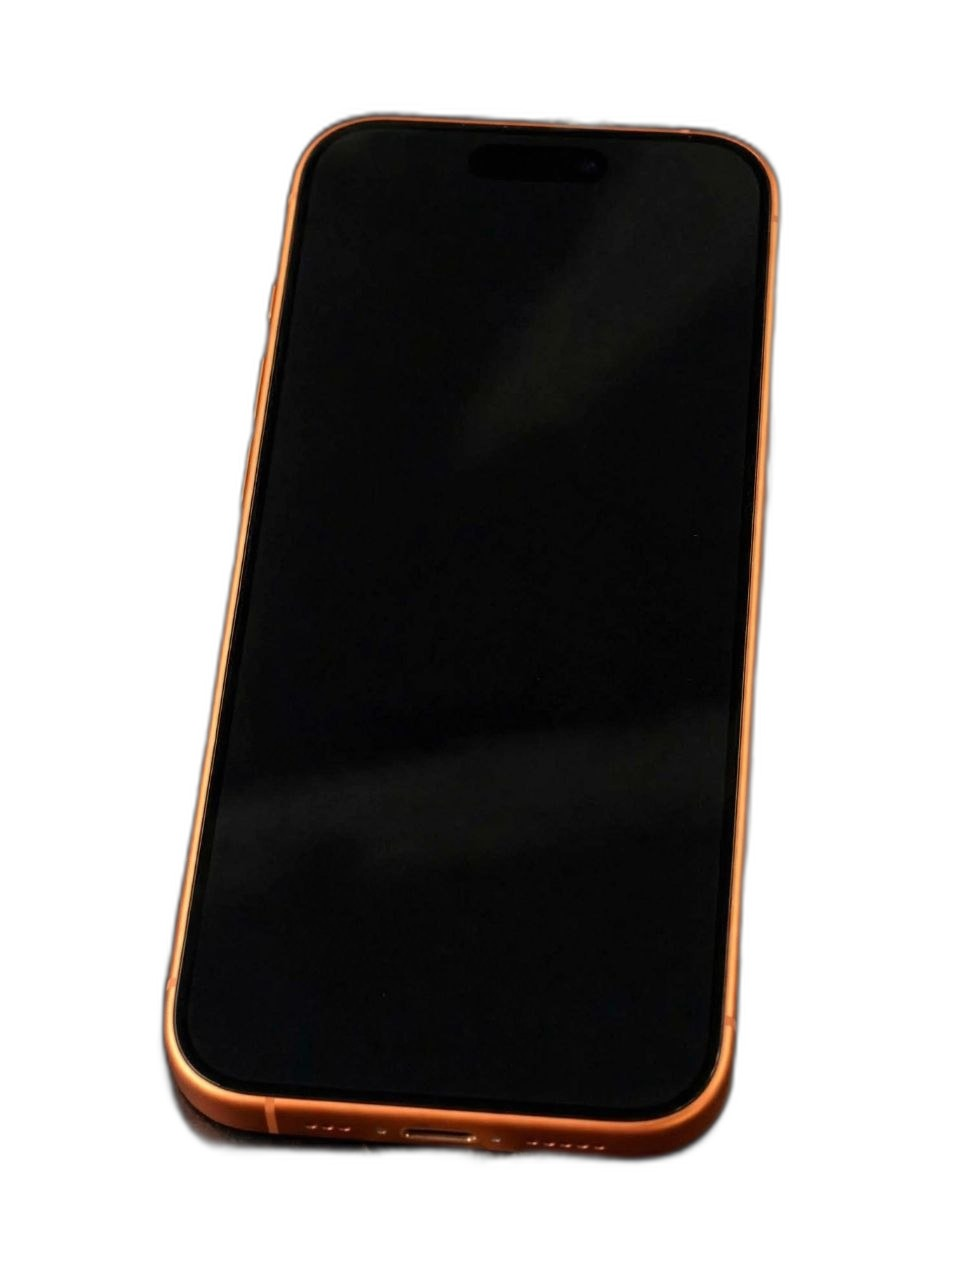
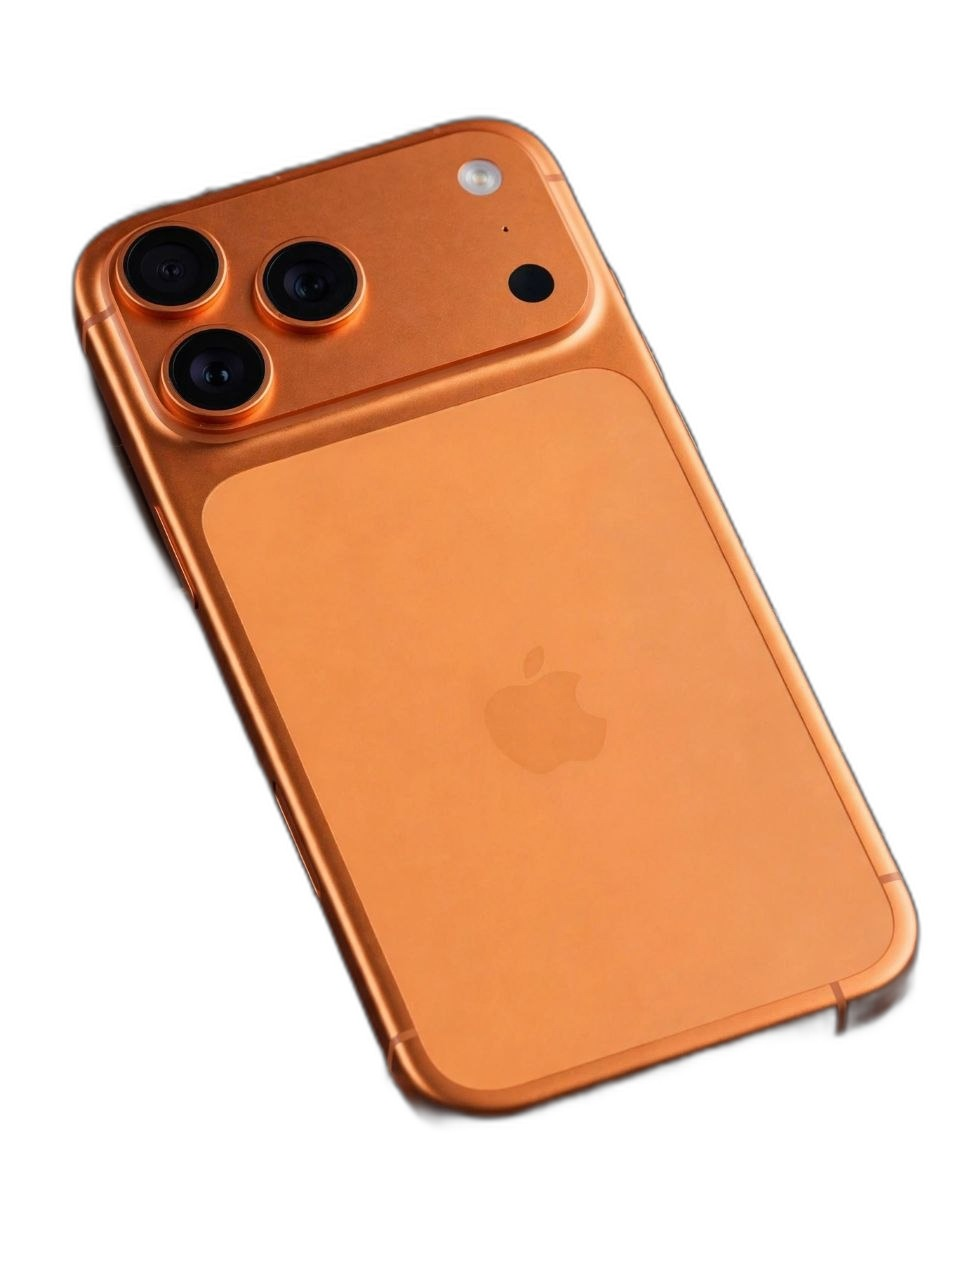
Fix iPhone catalog data and cache versions

diff --git a/frontend/js/store.js b/frontend/js/store.js
@@ -18,6 +18,7 @@
   const NEW_NOVEMBER_4_INVENTORY_SEED_KEY = 'electrophone_new_inventory_20261104_v1';
   const POCO_INVENTORY_SEED_KEY = 'electrophone_poco_inventory_20261027_v1';
   const POCO_PRICE_UPDATE_KEY = 'electrophone_poco_256_1850_20261029_v2';
+  const IPHONE_17_PRO_MAX_PRICE_UPDATE_KEY = 'electrophone_iphone17promax_1tb_14999_20261104_v1';
   const OPPO_A73_SEED_KEY = 'electrophone_oppo_a73_128_6_20261027_v1';
   const FJ_STAR_FJ_A6_SEED_KEY = 'electrophone_accessory_fj_star_fj_a6_20261027_v1';
   const JBL_980BT_SEED_KEY = 'electrophone_accessory_980bt_20261027_v1';
@@ -685,7 +686,7 @@
       storage: '1TB',
       ram: '12GB',
       name: 'iPhone 17 Pro Max 1TB - 100% Battery',
-      price: 15000,
+      price: 14999,
       oldPrice: 0,
       img: 'asset:phones/iphone-17-pro-max-1tb-100-battery-1.jpg',
       images: [
@@ -779,11 +780,16 @@
       model: '17 Pro Max',
       storage: '512GB',
       ram: '',
-      name: 'iPhone 17 Pro Max 512GB - 93% Battery',
+      name: 'iPhone 17 Pro Max 512GB',
       price: 13000,
       oldPrice: 0,
-      img: 'asset:phones/iphone-17-pro-max-512gb-93-battery.jpg',
-      images: ['asset:phones/iphone-17-pro-max-512gb-93-battery.jpg'],
+      img: 'asset:phones/stock2-iphone-17-pro-max-1.jpg',
+      images: [
+        'asset:phones/stock2-iphone-17-pro-max-1.jpg',
+        'asset:phones/stock2-iphone-17-pro-max-2.jpg',
+        'asset:phones/stock2-iphone-17-pro-max-3.jpg',
+        'asset:phones/stock2-iphone-17-pro-max-4.jpg'
+      ],
       condition: 'متوفر',
       quantity: 1,
       summary: '512GB • بطارية 93%',
@@ -1139,6 +1145,19 @@
 
   function applyPhonePriceRule(products) {
     return products.map(product => {
+      const brand = String(product.brand || '').toLowerCase();
+      if (brand === 'iphone') {
+        product = {
+          ...product,
+          ram: '',
+          name: String(product.name || '')
+            .replace(/\biPhone\s+iPhone\b/gi, 'iPhone')
+            .replace(/\s*(?:[-•]\s*)?RAM\s*\d+(?:GB|G)\b/gi, '')
+            .replace(/\s+(?:RAM\s*)?4GB\b/gi, '')
+            .replace(/\s{2,}/g, ' ')
+            .trim()
+        };
+      }
       const exactPriceIds = new Set([
         'phone-iphone-17-pro-max-1tb-100-battery-20261029',
         'phone-samsung-s24-ultra-256gb-12ram-20261029',
@@ -1150,6 +1169,31 @@
       ]);
       if (String(product.id) === 'phone-poco-256-8-20261027') {
         return { ...product, price: 1850, oldPrice: 0 };
+      }
+      if (String(product.id) === 'phone-iphone-17-pro-max-1tb-100-battery-20261029') {
+        return { ...product, price: 14999, oldPrice: 0 };
+      }
+      if (String(product.id) === 'phone-iphone-17-pro-max-512gb-93-battery-20261104') {
+        const images = [
+          'asset:phones/stock2-iphone-17-pro-max-1.jpg',
+          'asset:phones/stock2-iphone-17-pro-max-2.jpg',
+          'asset:phones/stock2-iphone-17-pro-max-3.jpg',
+          'asset:phones/stock2-iphone-17-pro-max-4.jpg'
+        ];
+        return {
+          ...product,
+          brand: 'iphone',
+          model: '17 Pro Max',
+          storage: '512GB',
+          ram: '',
+          name: 'iPhone 17 Pro Max 512GB',
+          summary: '512GB • بطارية 93%',
+          desc: 'iPhone 17 Pro Max بسعة 512GB وصحة بطارية 93%.',
+          img: images[0],
+          images,
+          price: 13000,
+          oldPrice: 0
+        };
       }
       if (exactPriceIds.has(String(product.id))) {
         return { ...product, oldPrice: 0 };
@@ -1325,6 +1369,17 @@
     );
     saveProducts(updatedProducts);
     localStorage.setItem(POCO_PRICE_UPDATE_KEY, 'true');
+  }
+
+  if (!localStorage.getItem(IPHONE_17_PRO_MAX_PRICE_UPDATE_KEY)) {
+    const products = getProducts();
+    const updatedProducts = products.map(product =>
+      String(product.id) === 'phone-iphone-17-pro-max-1tb-100-battery-20261029'
+        ? { ...product, price: 14999 }
+        : product
+    );
+    saveProducts(updatedProducts);
+    localStorage.setItem(IPHONE_17_PRO_MAX_PRICE_UPDATE_KEY, 'true');
   }
 
   if (!localStorage.getItem(OPPO_A73_SEED_KEY)) {
@@ -1937,6 +1992,19 @@
 
   function toFrenchCatalogText(value) {
     let text = String(value == null ? '' : value);
+    text = text
+      .replace(/(?:\?|؟){2,}/g, '')
+      .replace(/\bقيد التأكيد\b/g, '')
+      .replace(/غير محدد(?:ة|ين)?/g, '')
+      .replace(/تحديد الموديل مطلوب/g, 'موديل متوفر للطلب')
+      .replace(/حسب التفاصيل المتوفرة/g, '')
+      .replace(/\s*\((?:تأكيد الطراز|تأكيد النسخة)\)/g, '')
+      .replace(/\bتأكيد النسخة\b/g, '')
+      .replace(/\bتأكيد الطراز\b/g, '')
+      .replace(/\s+[•،,]\s*[•،,]\s*/g, ' • ')
+      .replace(/[()[\]{}]{2}/g, '')
+      .replace(/\s{2,}/g, ' ')
+      .trim();
     const translations = [
       ['حالة ممتازة', 'Excellent état'],
       ['بحالة ممتازة', 'Excellent état'],
@@ -2031,6 +2099,17 @@
   function normalizeCatalogText(item) {
     if (!item || typeof item !== 'object') return item;
     const normalized = { ...item };
+    if (String(normalized.brand || '').toLowerCase() === 'iphone') {
+      normalized.ram = '';
+      if (typeof normalized.name === 'string') {
+        normalized.name = normalized.name
+          .replace(/\biPhone\s+iPhone\b/gi, 'iPhone')
+          .replace(/\s*(?:[-•]\s*)?RAM\s*\d+(?:GB|G)\b/gi, '')
+          .replace(/\s+(?:RAM\s*)?4GB\b/gi, '')
+          .replace(/\s{2,}/g, ' ')
+          .trim();
+      }
+    }
     ['name', 'condition', 'cond', 'summary', 'desc', 'type'].forEach(field => {
       if (typeof normalized[field] === 'string') {
         normalized[field] = toFrenchCatalogText(normalized[field]);

diff --git a/netlify-deploy/frontend/js/store.js b/netlify-deploy/frontend/js/store.js
@@ -18,6 +18,7 @@
   const NEW_NOVEMBER_4_INVENTORY_SEED_KEY = 'electrophone_new_inventory_20261104_v1';
   const POCO_INVENTORY_SEED_KEY = 'electrophone_poco_inventory_20261027_v1';
   const POCO_PRICE_UPDATE_KEY = 'electrophone_poco_256_1850_20261029_v2';
+  const IPHONE_17_PRO_MAX_PRICE_UPDATE_KEY = 'electrophone_iphone17promax_1tb_14999_20261104_v1';
   const OPPO_A73_SEED_KEY = 'electrophone_oppo_a73_128_6_20261027_v1';
   const FJ_STAR_FJ_A6_SEED_KEY = 'electrophone_accessory_fj_star_fj_a6_20261027_v1';
   const JBL_980BT_SEED_KEY = 'electrophone_accessory_980bt_20261027_v1';
@@ -685,7 +686,7 @@
       storage: '1TB',
       ram: '12GB',
       name: 'iPhone 17 Pro Max 1TB - 100% Battery',
-      price: 15000,
+      price: 14999,
       oldPrice: 0,
       img: 'asset:phones/iphone-17-pro-max-1tb-100-battery-1.jpg',
       images: [
@@ -779,11 +780,16 @@
       model: '17 Pro Max',
       storage: '512GB',
       ram: '',
-      name: 'iPhone 17 Pro Max 512GB - 93% Battery',
+      name: 'iPhone 17 Pro Max 512GB',
       price: 13000,
       oldPrice: 0,
-      img: 'asset:phones/iphone-17-pro-max-512gb-93-battery.jpg',
-      images: ['asset:phones/iphone-17-pro-max-512gb-93-battery.jpg'],
+      img: 'asset:phones/stock2-iphone-17-pro-max-1.jpg',
+      images: [
+        'asset:phones/stock2-iphone-17-pro-max-1.jpg',
+        'asset:phones/stock2-iphone-17-pro-max-2.jpg',
+        'asset:phones/stock2-iphone-17-pro-max-3.jpg',
+        'asset:phones/stock2-iphone-17-pro-max-4.jpg'
+      ],
       condition: 'متوفر',
       quantity: 1,
       summary: '512GB • بطارية 93%',
@@ -1139,6 +1145,19 @@
 
   function applyPhonePriceRule(products) {
     return products.map(product => {
+      const brand = String(product.brand || '').toLowerCase();
+      if (brand === 'iphone') {
+        product = {
+          ...product,
+          ram: '',
+          name: String(product.name || '')
+            .replace(/\biPhone\s+iPhone\b/gi, 'iPhone')
+            .replace(/\s*(?:[-•]\s*)?RAM\s*\d+(?:GB|G)\b/gi, '')
+            .replace(/\s+(?:RAM\s*)?4GB\b/gi, '')
+            .replace(/\s{2,}/g, ' ')
+            .trim()
+        };
+      }
       const exactPriceIds = new Set([
         'phone-iphone-17-pro-max-1tb-100-battery-20261029',
         'phone-samsung-s24-ultra-256gb-12ram-20261029',
@@ -1150,6 +1169,31 @@
       ]);
       if (String(product.id) === 'phone-poco-256-8-20261027') {
         return { ...product, price: 1850, oldPrice: 0 };
+      }
+      if (String(product.id) === 'phone-iphone-17-pro-max-1tb-100-battery-20261029') {
+        return { ...product, price: 14999, oldPrice: 0 };
+      }
+      if (String(product.id) === 'phone-iphone-17-pro-max-512gb-93-battery-20261104') {
+        const images = [
+          'asset:phones/stock2-iphone-17-pro-max-1.jpg',
+          'asset:phones/stock2-iphone-17-pro-max-2.jpg',
+          'asset:phones/stock2-iphone-17-pro-max-3.jpg',
+          'asset:phones/stock2-iphone-17-pro-max-4.jpg'
+        ];
+        return {
+          ...product,
+          brand: 'iphone',
+          model: '17 Pro Max',
+          storage: '512GB',
+          ram: '',
+          name: 'iPhone 17 Pro Max 512GB',
+          summary: '512GB • بطارية 93%',
+          desc: 'iPhone 17 Pro Max بسعة 512GB وصحة بطارية 93%.',
+          img: images[0],
+          images,
+          price: 13000,
+          oldPrice: 0
+        };
       }
       if (exactPriceIds.has(String(product.id))) {
         return { ...product, oldPrice: 0 };
@@ -1325,6 +1369,17 @@
     );
     saveProducts(updatedProducts);
     localStorage.setItem(POCO_PRICE_UPDATE_KEY, 'true');
+  }
+
+  if (!localStorage.getItem(IPHONE_17_PRO_MAX_PRICE_UPDATE_KEY)) {
+    const products = getProducts();
+    const updatedProducts = products.map(product =>
+      String(product.id) === 'phone-iphone-17-pro-max-1tb-100-battery-20261029'
+        ? { ...product, price: 14999 }
+        : product
+    );
+    saveProducts(updatedProducts);
+    localStorage.setItem(IPHONE_17_PRO_MAX_PRICE_UPDATE_KEY, 'true');
   }
 
   if (!localStorage.getItem(OPPO_A73_SEED_KEY)) {
@@ -1937,6 +1992,19 @@
 
   function toFrenchCatalogText(value) {
     let text = String(value == null ? '' : value);
+    text = text
+      .replace(/(?:\?|؟){2,}/g, '')
+      .replace(/\bقيد التأكيد\b/g, '')
+      .replace(/غير محدد(?:ة|ين)?/g, '')
+      .replace(/تحديد الموديل مطلوب/g, 'موديل متوفر للطلب')
+      .replace(/حسب التفاصيل المتوفرة/g, '')
+      .replace(/\s*\((?:تأكيد الطراز|تأكيد النسخة)\)/g, '')
+      .replace(/\bتأكيد النسخة\b/g, '')
+      .replace(/\bتأكيد الطراز\b/g, '')
+      .replace(/\s+[•،,]\s*[•،,]\s*/g, ' • ')
+      .replace(/[()[\]{}]{2}/g, '')
+      .replace(/\s{2,}/g, ' ')
+      .trim();
     const translations = [
       ['حالة ممتازة', 'Excellent état'],
       ['بحالة ممتازة', 'Excellent état'],
@@ -2031,6 +2099,17 @@
   function normalizeCatalogText(item) {
     if (!item || typeof item !== 'object') return item;
     const normalized = { ...item };
+    if (String(normalized.brand || '').toLowerCase() === 'iphone') {
+      normalized.ram = '';
+      if (typeof normalized.name === 'string') {
+        normalized.name = normalized.name
+          .replace(/\biPhone\s+iPhone\b/gi, 'iPhone')
+          .replace(/\s*(?:[-•]\s*)?RAM\s*\d+(?:GB|G)\b/gi, '')
+          .replace(/\s+(?:RAM\s*)?4GB\b/gi, '')
+          .replace(/\s{2,}/g, ' ')
+          .trim();
+      }
+    }
     ['name', 'condition', 'cond', 'summary', 'desc', 'type'].forEach(field => {
       if (typeof normalized[field] === 'string') {
         normalized[field] = toFrenchCatalogText(normalized[field]);

diff --git a/index.html b/index.html
@@ -162,9 +162,9 @@
     </div>
   </div>
   <script src="https://cdn.jsdelivr.net/npm/@supabase/supabase-js@2"></script>
-  <script src="frontend/js/store.js?v=20261104a"></script>
+  <script src="frontend/js/store.js?v=20261104c"></script>
   <script src="frontend/js/supabase-config.js?v=20261029c"></script>
-  <script src="frontend/js/cloud-catalog.js?v=cc9fb76"></script>
-  <script src="frontend/js/main.js?v=20261104b"></script>
+  <script src="frontend/js/cloud-catalog.js?v=cc9fb77"></script>
+  <script src="frontend/js/main.js?v=20261104c"></script>
 </body>
 </html>

diff --git a/netlify-deploy/index.html b/netlify-deploy/index.html
@@ -162,9 +162,9 @@
     </div>
   </div>
   <script src="https://cdn.jsdelivr.net/npm/@supabase/supabase-js@2"></script>
-  <script src="frontend/js/store.js?v=20261104a"></script>
+  <script src="frontend/js/store.js?v=20261104c"></script>
   <script src="frontend/js/supabase-config.js?v=20261029c"></script>
-  <script src="frontend/js/cloud-catalog.js?v=cc9fb76"></script>
-  <script src="frontend/js/main.js?v=20261104b"></script>
+  <script src="frontend/js/cloud-catalog.js?v=cc9fb77"></script>
+  <script src="frontend/js/main.js?v=20261104c"></script>
 </body>
 </html>
